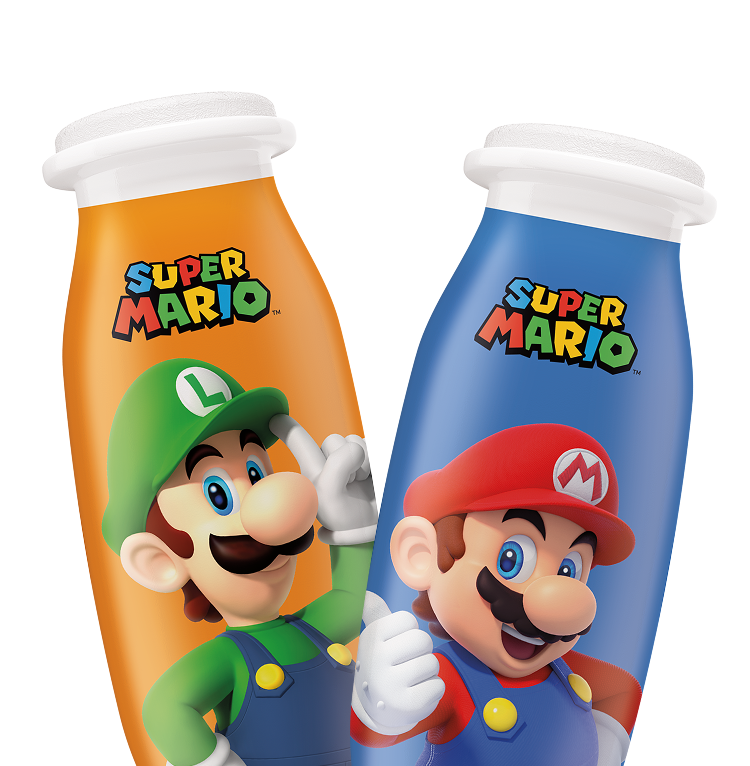
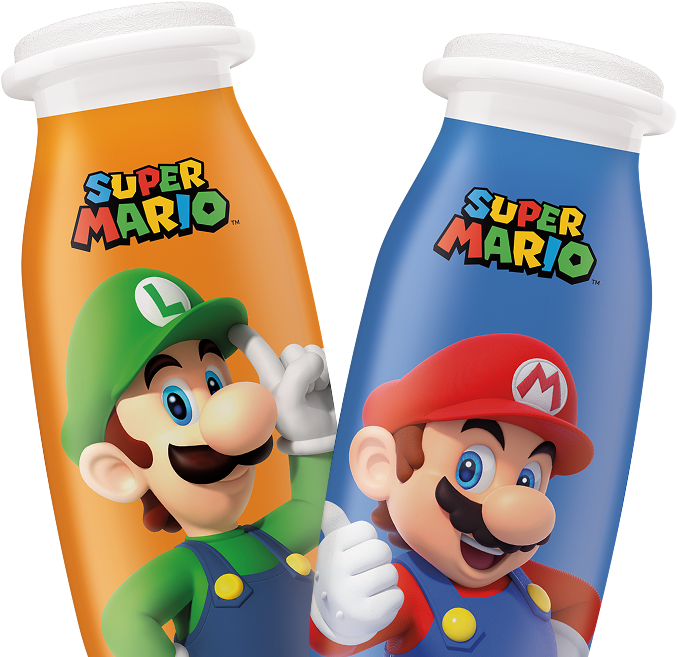
fix

diff --git a/index.html b/index.html
@@ -78,7 +78,7 @@
 
     .img-text{
         width: 100%;
-        margin-top: 2rem;
+        margin-top: 0rem;
     }
 
     .img-bottom {
